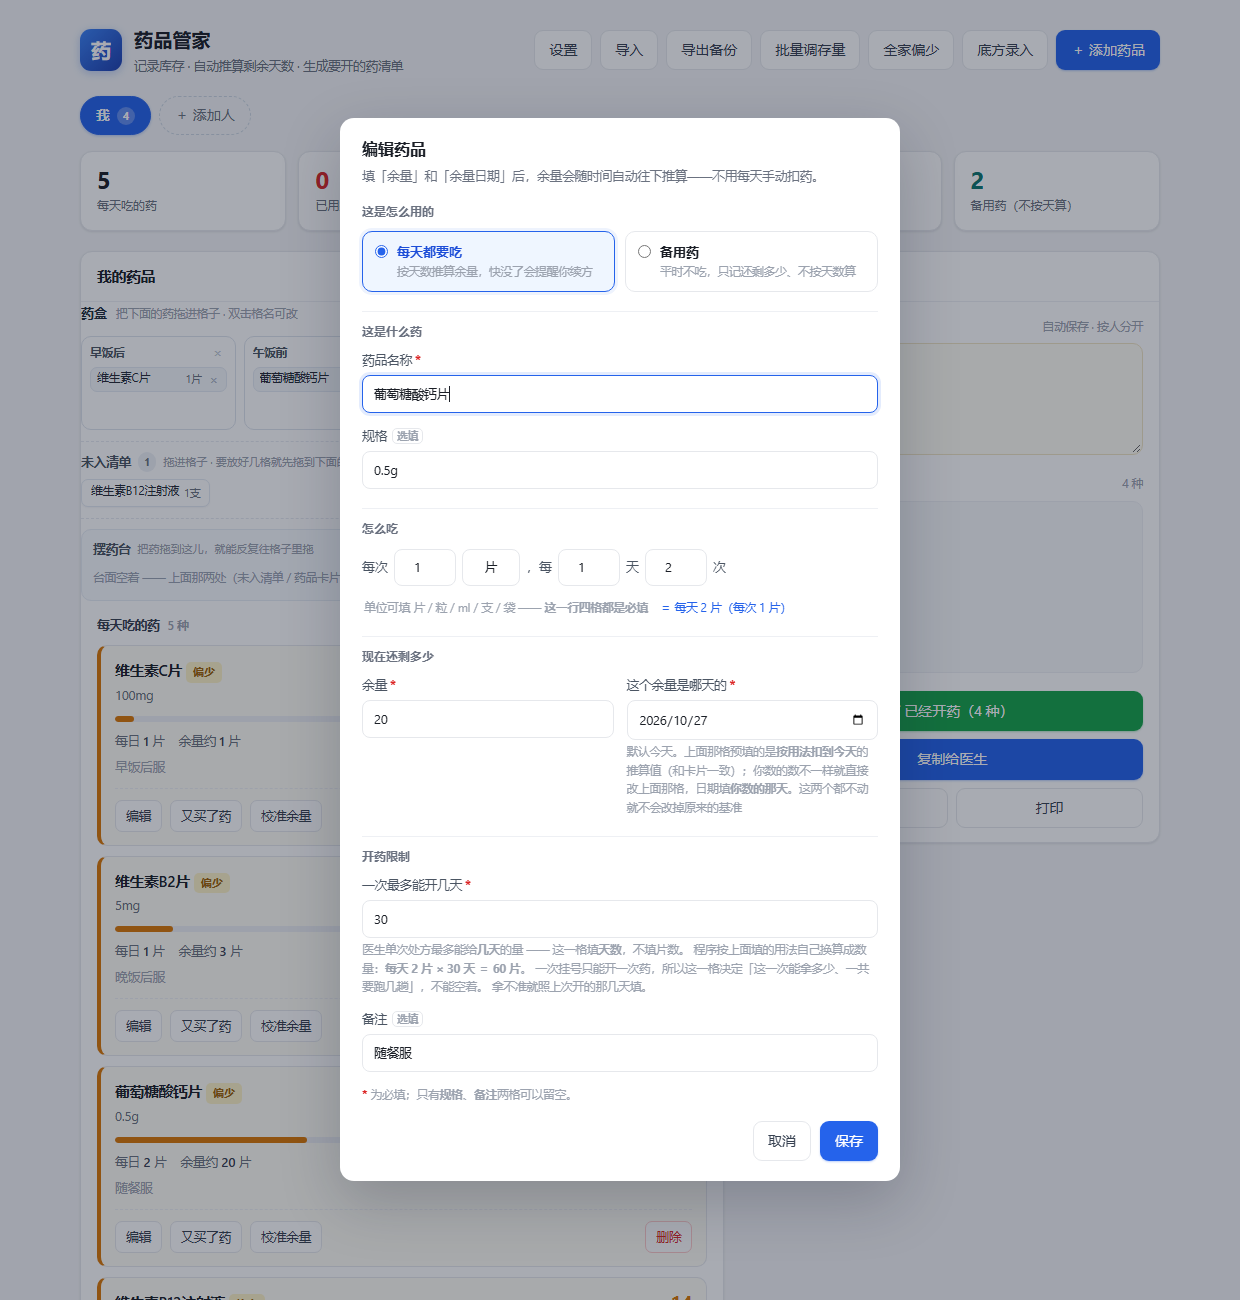
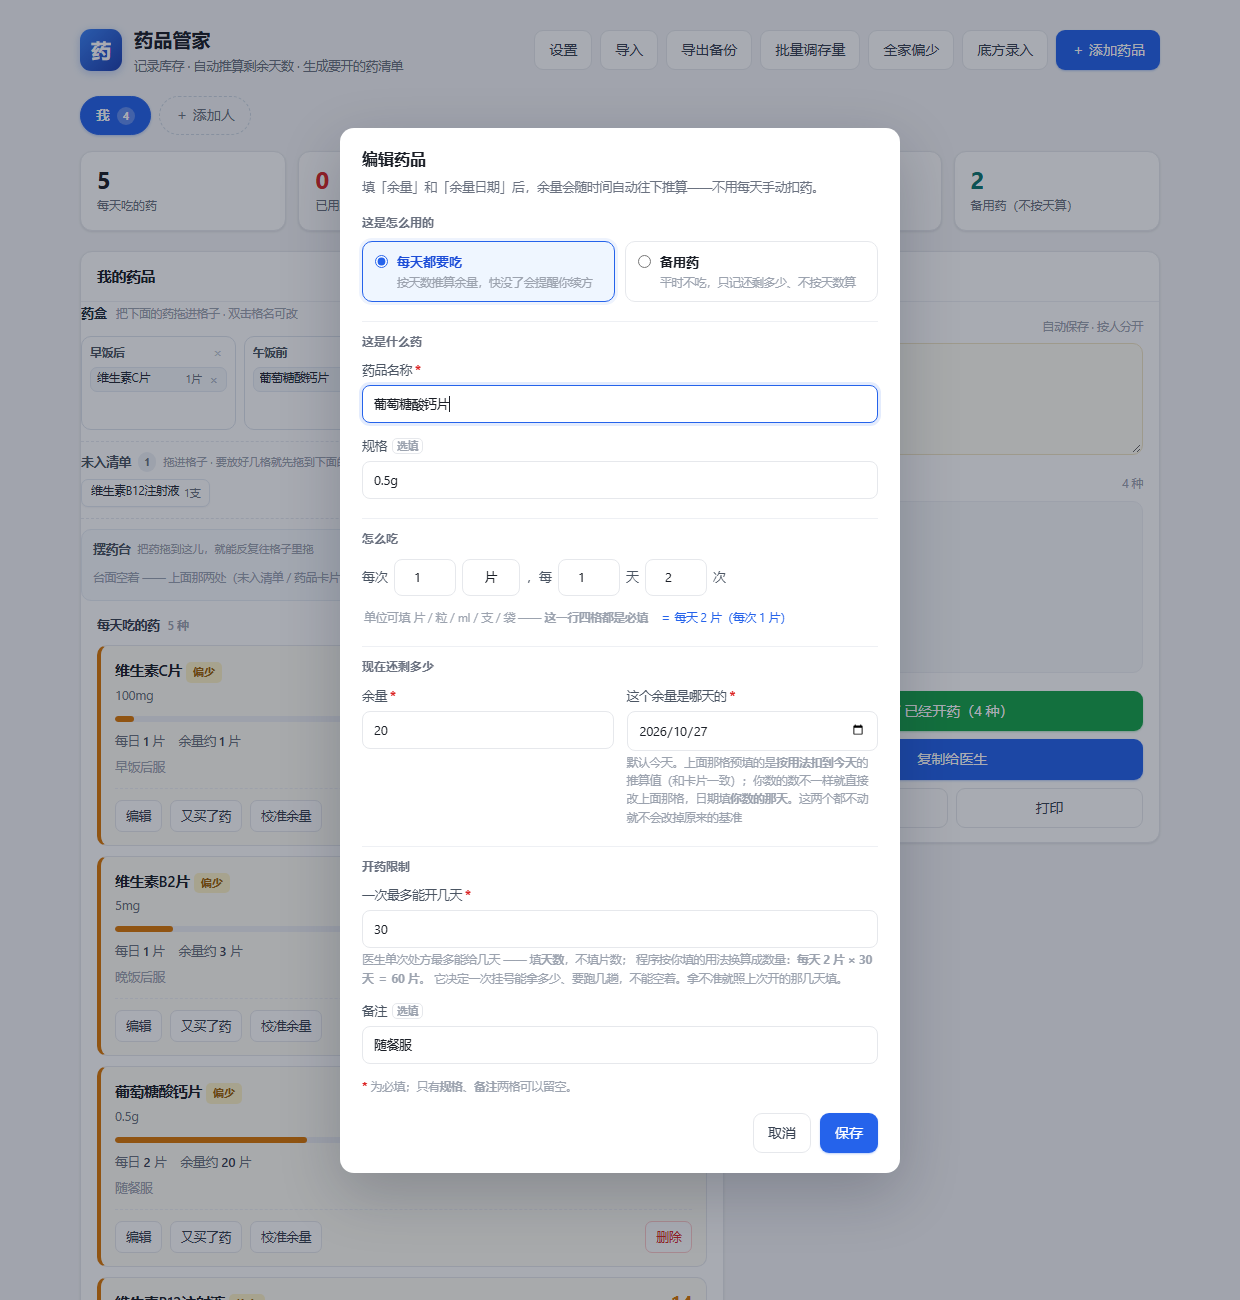
开药限制那句说明收短一点（手机上少占两行）

diff --git a/index.html b/index.html
@@ -944,10 +944,9 @@ dialog::backdrop{background:rgba(15,23,42,.36)}
         <div class="sec-title" id="secRxLimit">开药限制</div>
         <label class="full" id="rxMaxLabel"><span class="lb">一次最多能开几天<b class="req">*</b></span>
           <input name="rxMax" type="number" step="1" min="1" autocomplete="off" placeholder="如 30" required>
-          <span class="hintline">医生单次处方最多能给<b>几天</b>的量 —— 这一格填<b>天数</b>，不填片数。
-            程序按上面填的用法自己换算成数量：<b id="rxConv">—</b>。
-            一次挂号只能开一次药，所以这一格决定「这一次能拿多少、一共要跑几趟」，不能空着。
-            拿不准就照上次开的那几天填。</span>
+          <span class="hintline">医生单次处方最多能给几天 —— 填<b>天数</b>，不填片数；
+            程序按你填的用法换算成数量：<b id="rxConv">—</b>。
+            它决定一次挂号能拿多少、要跑几趟，不能空着。拿不准就照上次开的那几天填。</span>
         </label>
 
         <label class="full"><span class="lb">备注<span class="opt">选填</span></span>
